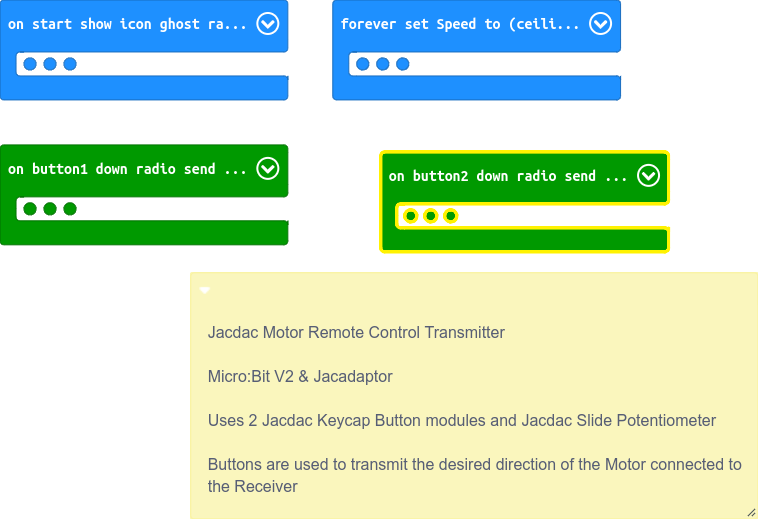
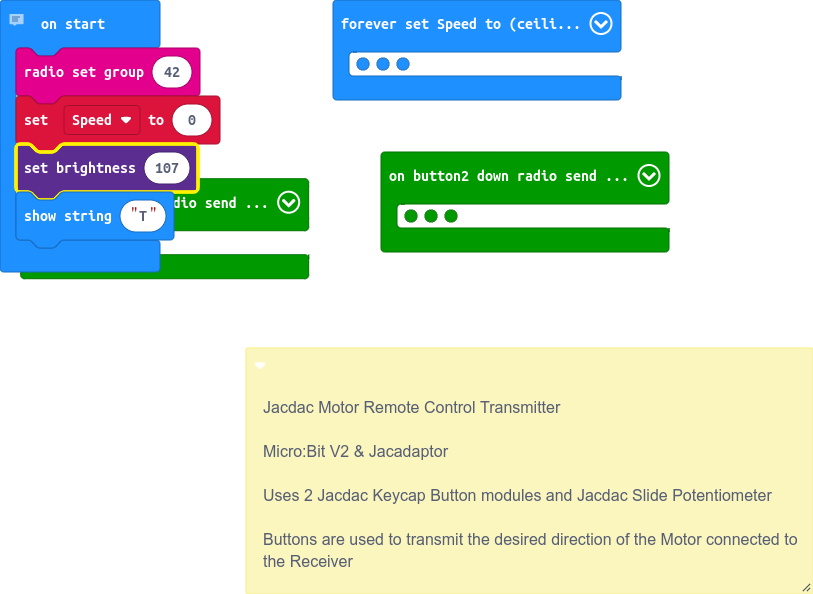
final

diff --git a/main.ts b/main.ts
@@ -30,9 +30,10 @@ modules.button2.onEvent(jacdac.ButtonEvent.Down, function () {
 // Set Variavle "Speed" to 0 - this is used to control the speed of the motor connected to the receiver
 // 
 // 
-basic.showIcon(IconNames.Ghost)
 radio.setGroup(42)
 let Speed = 0
+led.setBrightness(107)
+basic.showString("T")
 // Set Variable "Speed" to value of device used to control speed of motor.
 // 
 // Send this value via radio with a name of "Speed" 
